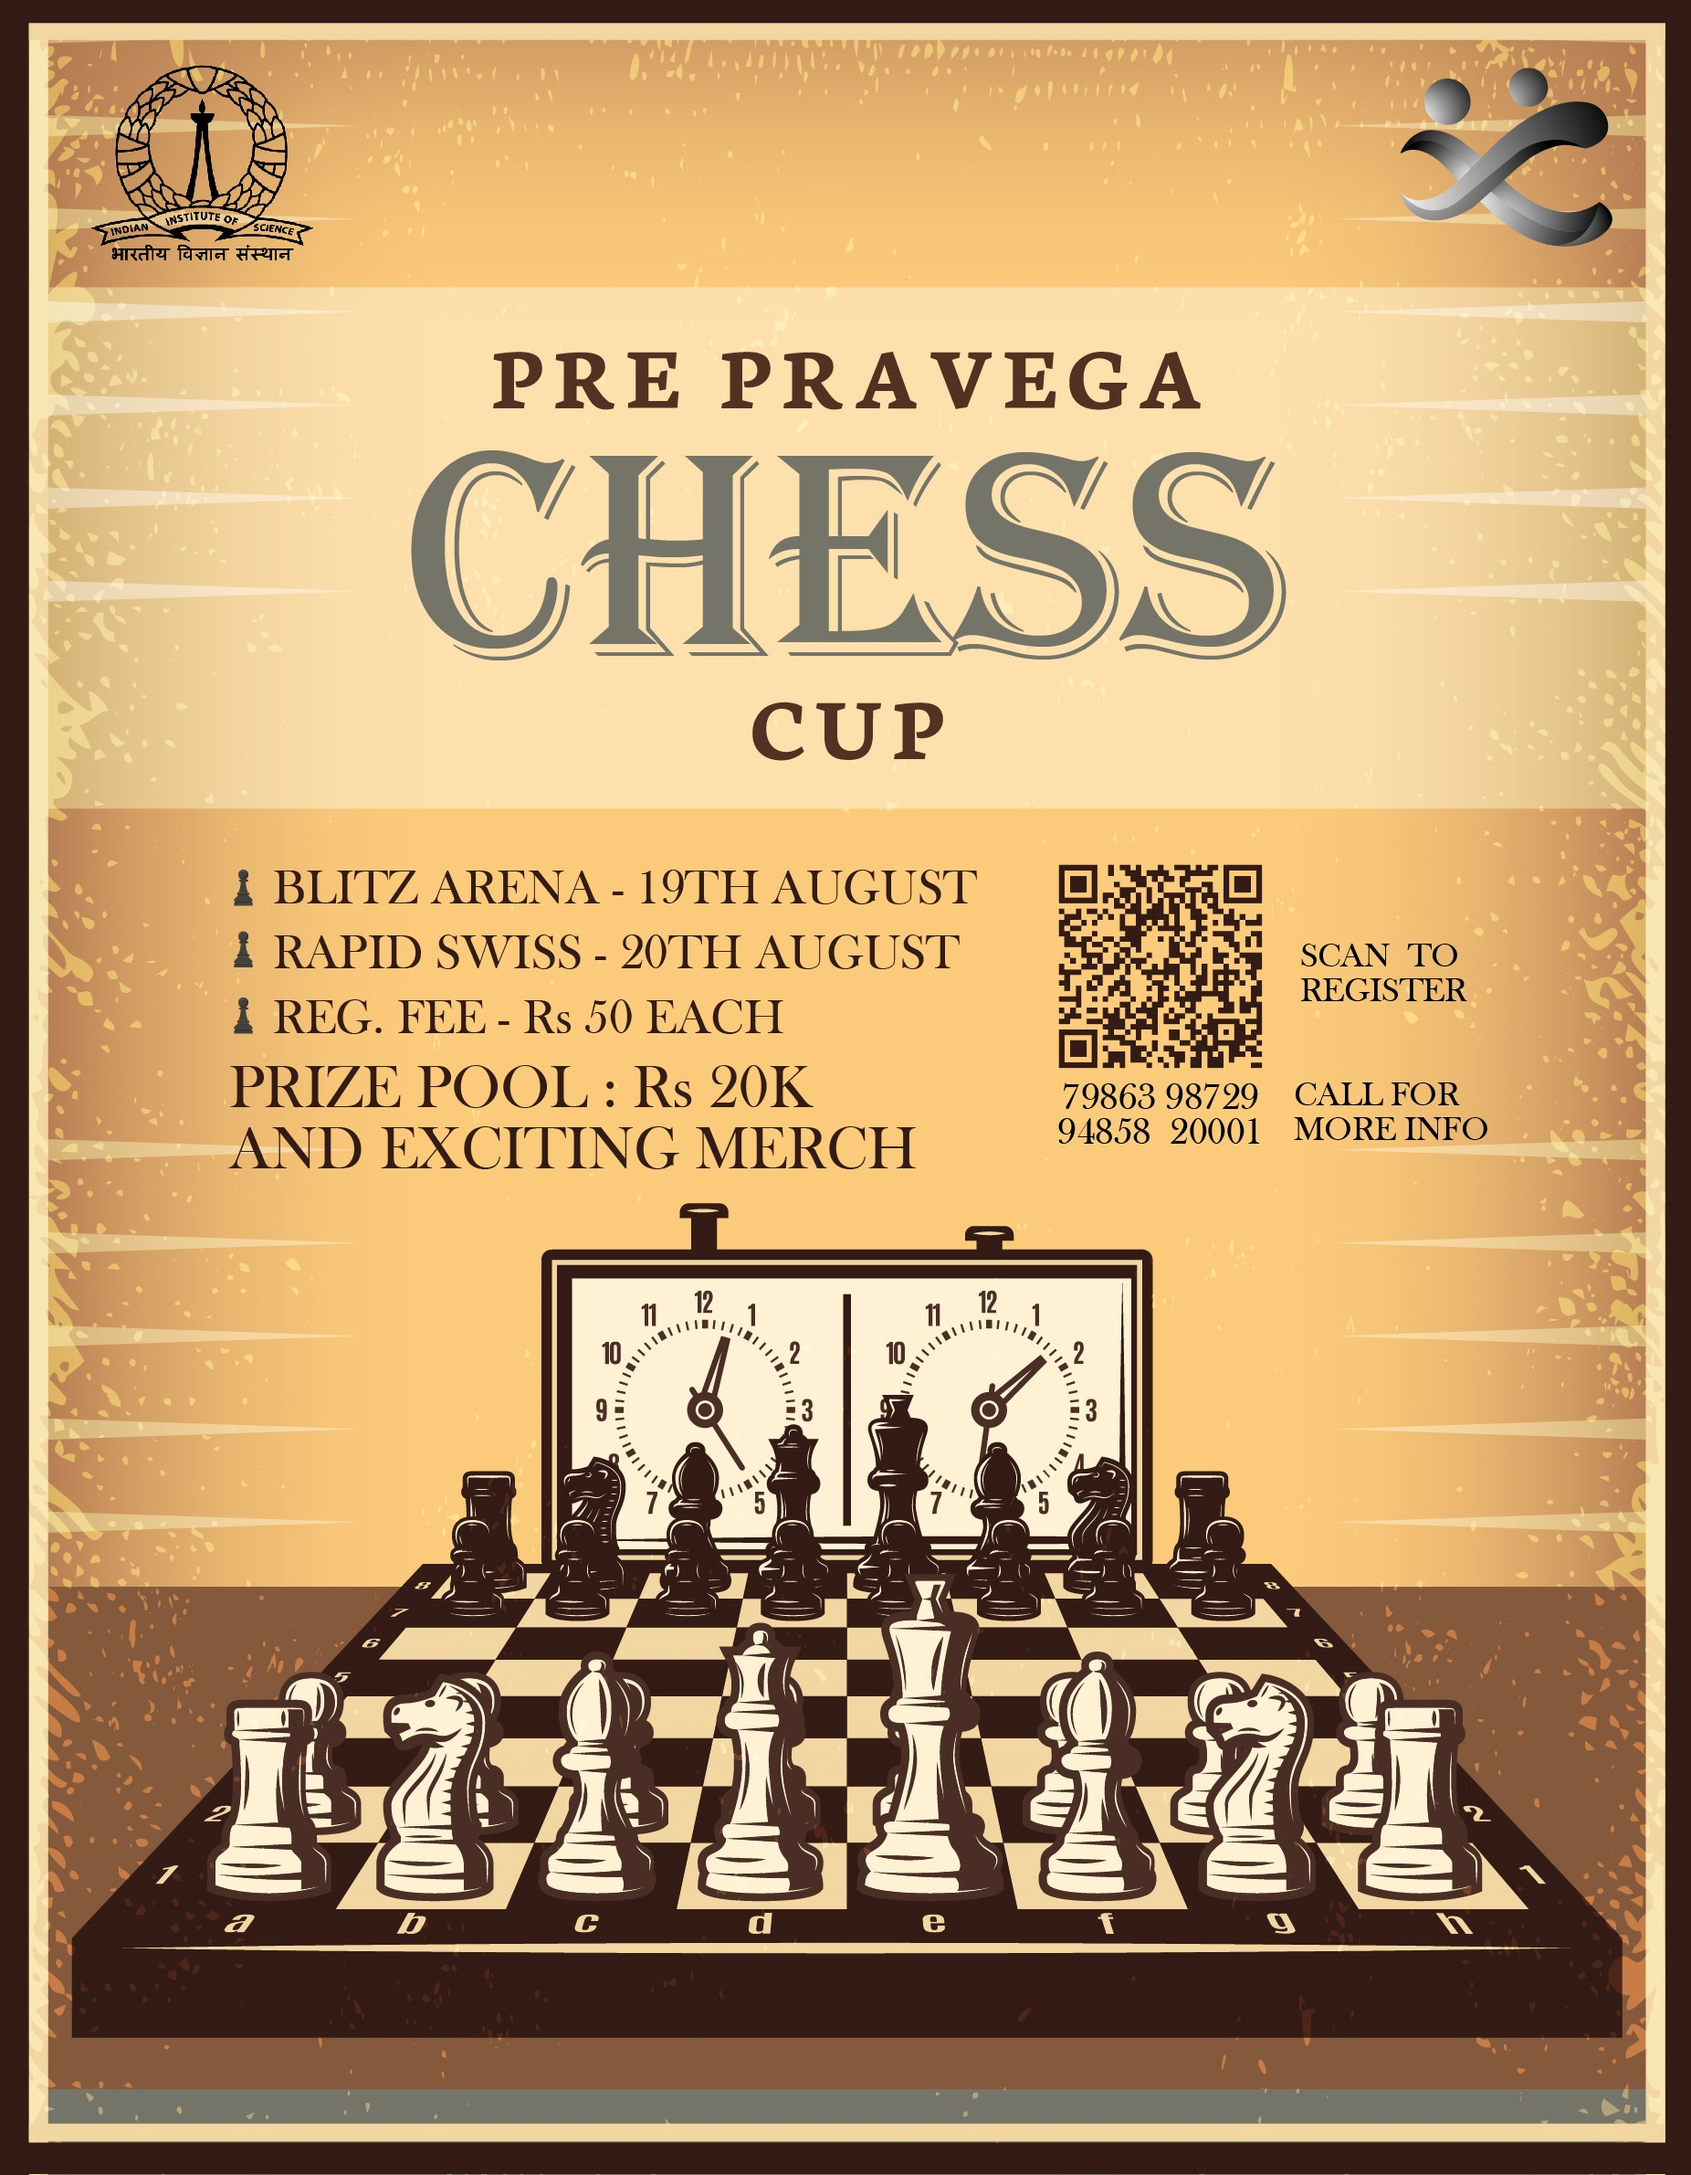
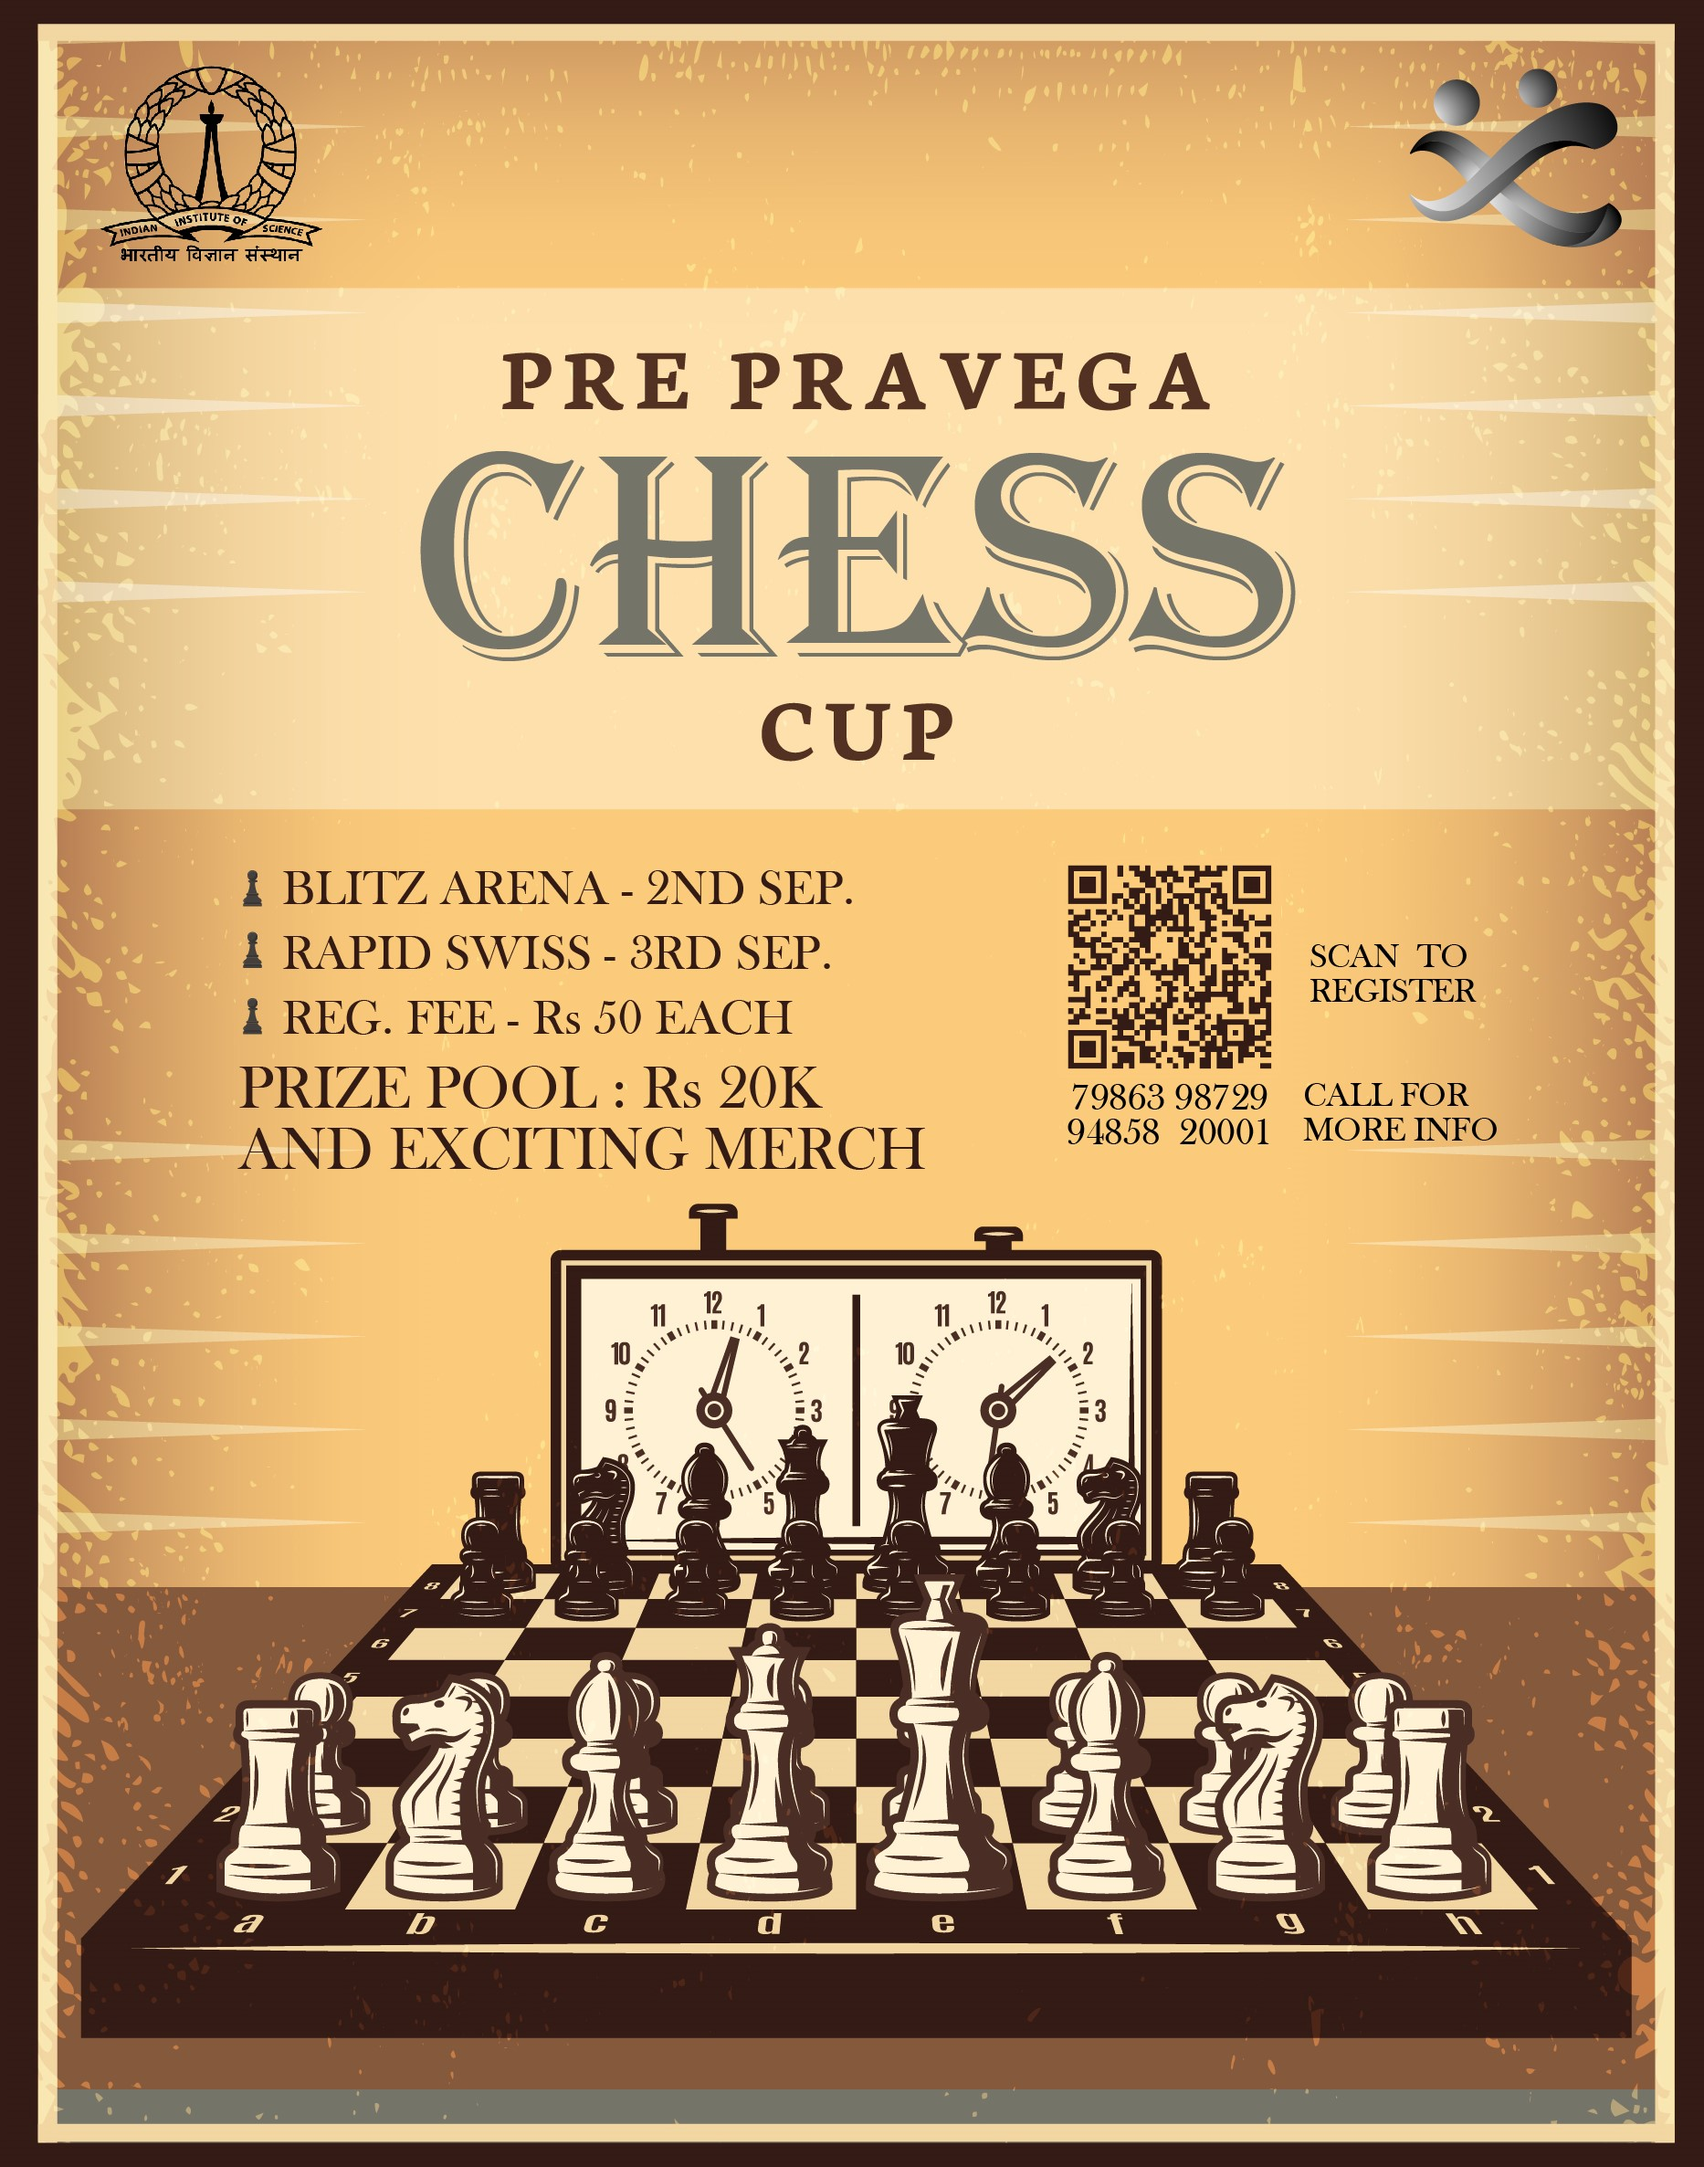
chess

Changed region(s): [[0.0, 0.0, 0.9849, 1.0], [0.2462, 0.1559, 0.7694, 0.3742], [0.3693, 0.0, 0.5232, 0.0312]]

diff --git a/src/components/Home.vue b/src/components/Home.vue
@@ -14,37 +14,37 @@ export default {
       ],
       cards: [
         {
-          bgimg: "/img/scitech/BioBlitz.jpg",
+          bgimg: "/img/recreationals/chess.jpg",
           logo: "/img/logo/x.png",
-          text: "Registrations extended till 13th July!",
-          date: "Prelims 2: 12.08.2023",
+          text: "Event postponed to 2nd September",
+          date: "Prelims 1: 02.09.2023",
           urltext: "Register Here",
-          urllink: "/scitech/bioblitz_register"
+          urllink: "/recreationals/chess_register"
         },
         {
           bgimg: "/img/scitech/Decoherence.jpg",
           logo: "/img/logo/x.png",
-          text: "Registrations closing soon",
+          text: "Registrations have closed!",
           date: "Prelims date: 05.08.2023",
-          urltext: "Register Here",
+          //urltext: "Register Here",
           urllink: "/scitech/decoherence_register"
         },
         {
           bgimg: "/img/scitech/Quadsparks.jpg",
           logo: "/img/logo/x.png",
-          text: "Registrations closing soon",
+          text: "Registrations have closed! Offline prelims coming soon!",
          // date: "20.02.2023",
-          urltext: "Register here",
+          //urltext: "Register here",
           urllink: "/scitech/quadsparks"
         },
-        {
+        /*{
           bgimg: "/img/recreationals/chess.jpg",
           logo: "/img/logo/x.png",
           text: "Registrations live now!",
          // date: "20.02.2023",
           urltext: "Register here",
           urllink: "/recreationals/chess_register"
-        }//add more lists to add more cards
+        }//add more lists to add more cards*/
       ]
     }
   }
